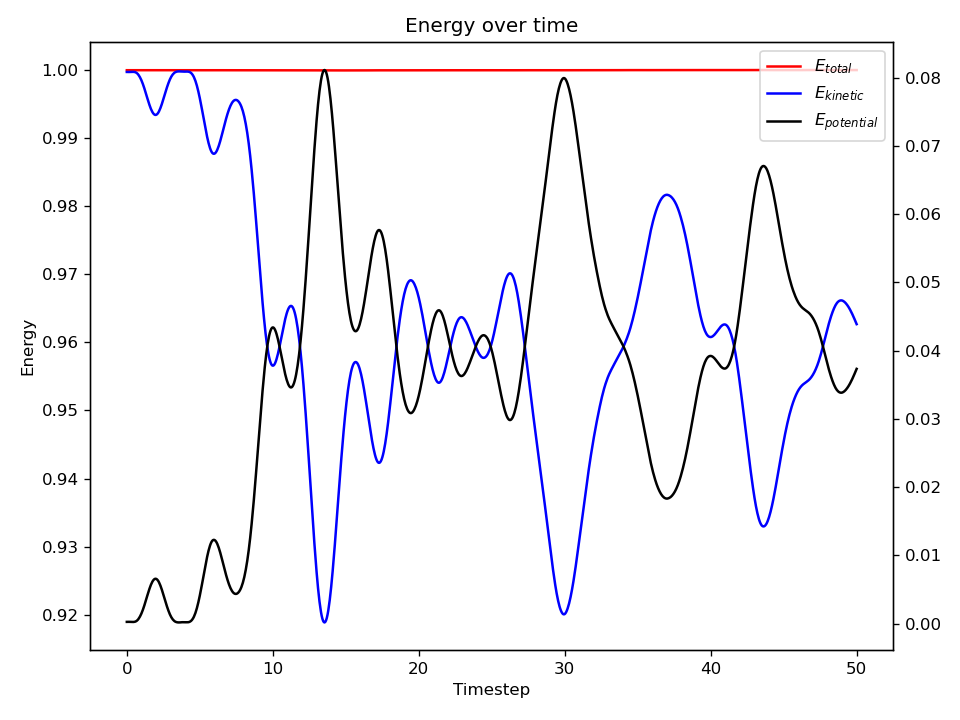
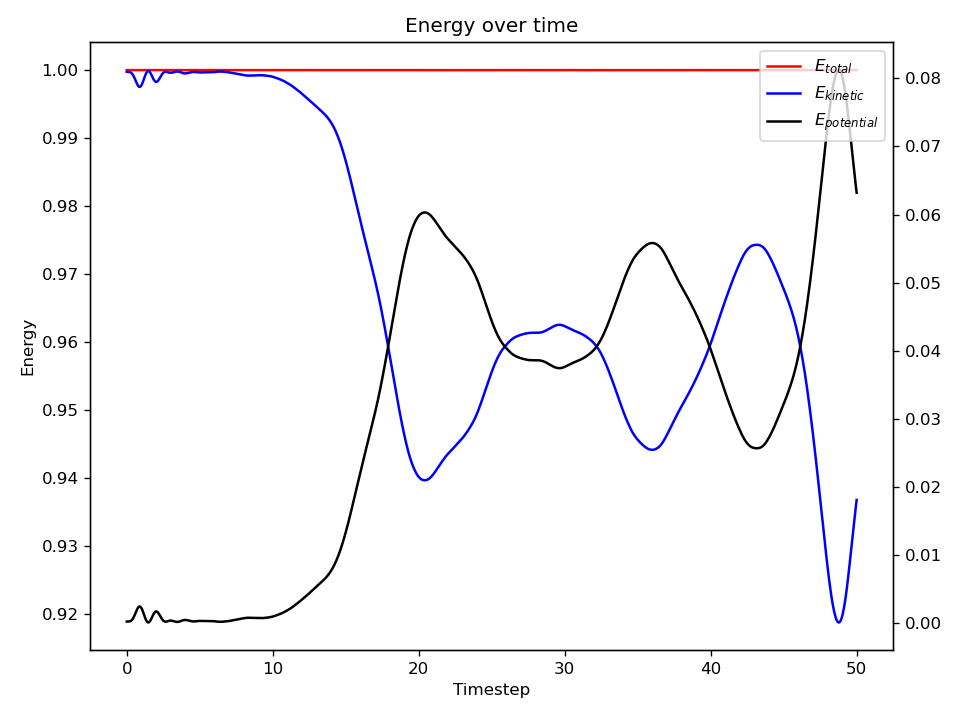
update plot func

diff --git a/src/util.py b/src/util.py
@@ -492,7 +492,7 @@ def generate_bump_on_tail_gif(
     # Save animation
     ani.save(filepath, writer=animation.PillowWriter(fps=plot_freq))
     plt.close(fig)
-    
+
 def generate_bump_on_tail_dist_gif(
     snapshot:np.ndarray,
     save_dir:Optional[str],
@@ -695,6 +695,69 @@ def generate_distribution_figure(
     axes[1,2].set_ylabel("f(v) at $t=t_{max}$")
     axes[1,2].set_xlim([vmin, vmax])
     axes[1,2].set_ylim([0, 0.5])
+
+    fig.tight_layout()
+    plt.savefig(filepath, dpi=120)
+
+    return fig, axes
+
+def generate_v_distribution_figure(
+    snapshot: np.ndarray,
+    save_dir: Optional[str],
+    filename: Optional[str],
+    vmin: Optional[float] = -10.0,
+    vmax: Optional[float] = 10.0,
+):
+
+    v_axis = np.linspace(vmin, vmax, 64)
+
+    # check directory
+    filepath = os.path.join(save_dir, filename)
+
+    if not os.path.exists(save_dir):
+        os.makedirs(save_dir)
+
+    # Snapshot info
+    N = snapshot.shape[0] // 2
+    Nt = snapshot.shape[1]
+
+    fig, axes = plt.subplots(1, 3, figsize=(12, 4), facecolor="white", dpi=120)
+
+    x = snapshot[: len(snapshot) // 2, 0]
+    v = snapshot[len(snapshot) // 2 :, 0]
+
+    density = gaussian_kde(v)
+
+    axes[0].plot(v_axis, density(v_axis), "b")[0]
+    axes[0].set_xlabel("v")
+    axes[0].set_ylabel("f(v)")
+    axes[0].set_xlim(vmin, vmax)
+    axes[0].set_ylim([0, 0.5])
+    axes[0].set_title("Distribution f(v,$t=0$)")
+
+    x = snapshot[: len(snapshot) // 2, Nt//2]
+    v = snapshot[len(snapshot) // 2 :, Nt//2]
+
+    density = gaussian_kde(v)
+
+    axes[1].plot(v_axis, density(v_axis), "b")[0]
+    axes[1].set_xlabel("v")
+    axes[1].set_ylabel("f(v)")
+    axes[1].set_xlim(vmin, vmax)
+    axes[1].set_ylim([0, 0.5])
+    axes[1].set_title("Distribution f(v,$t=t_{max}/2$)")
+
+    x = snapshot[: len(snapshot) // 2, -1]
+    v = snapshot[len(snapshot) // 2 :, -1]
+
+    density = gaussian_kde(v)
+
+    axes[2].plot(v_axis, density(v_axis), "b")[0]
+    axes[2].set_xlabel("v")
+    axes[2].set_ylabel("f(v)")
+    axes[2].set_xlim(vmin, vmax)
+    axes[2].set_ylim([0, 0.5])
+    axes[2].set_title("Distribution f(v,$t=t_{max}$)")
 
     fig.tight_layout()
     plt.savefig(filepath, dpi=120)

diff --git a/pic_1d_bump_on_tail.py b/pic_1d_bump_on_tail.py
@@ -2,13 +2,14 @@ import argparse
 from src.PIC import PIC
 from src.dist import BumpOnTail1D
 from src.util import (
-    generate_bump_on_tail_figure, 
-    generate_bump_on_tail_snapshot, 
-    generate_hamiltonian_analysis, 
-    generate_bump_on_tail_gif, 
+    generate_bump_on_tail_figure,
+    generate_bump_on_tail_snapshot,
+    generate_hamiltonian_analysis,
+    generate_bump_on_tail_gif,
     generate_bump_on_tail_dist_gif,
-    generate_distribution_snapshot, 
-    generate_distribution_figure
+    generate_distribution_snapshot,
+    generate_distribution_figure,
+    generate_v_distribution_figure,
 )
 
 def parsing():
@@ -73,7 +74,8 @@ if __name__ == "__main__":
     # plot distribution
     generate_distribution_snapshot(snapshot[:,-1], args["save_dir"],"{}_snapshot_dist_{}_{}.png".format(args['simcase'], args['interpol'], args['method']), xmin = 0, xmax = args['L'], vmin = -10.0, vmax = 10.0)
     generate_distribution_figure(snapshot, args["save_dir"],"{}_evolution_dist_{}_{}.png".format(args['simcase'], args['interpol'], args['method']), xmin = 0, xmax = args['L'], vmin = -10.0, vmax = 10.0)
-
+    generate_v_distribution_figure(snapshot, args["save_dir"],"{}_evolution_v_dist_{}_{}.png".format(args['simcase'], args['interpol'], args['method']), vmin = -10.0, vmax = 10.0)
+    
     if args['use_animation']:
         generate_bump_on_tail_gif(snapshot, args['save_dir'], "{}_simulation_{}_{}.gif".format(args['simcase'], args['interpol'], args['method']), 0, args['L'], -10.0, 10.0, args['plot_freq'], h_idx)
         generate_bump_on_tail_dist_gif(snapshot, args['save_dir'], "{}_simulation_dist_{}_{}.gif".format(args['simcase'], args['interpol'], args['method']), 0, args['L'], -10.0, 10.0, args['plot_freq'], h_idx)

diff --git a/pic_1d_two_stream.py b/pic_1d_two_stream.py
@@ -7,7 +7,8 @@ from src.util import (
     generate_PIC_gif, 
     generate_distribution_snapshot, 
     generate_distribution_figure, 
-    generate_PIC_dist_gif
+    generate_PIC_dist_gif,
+    generate_v_distribution_figure
 )
 
 def parsing():
@@ -26,7 +27,7 @@ def parsing():
     parser.add_argument("--vth", type = float, default = 1.0)
     parser.add_argument("--gamma", type = float, default = 5.0)
     parser.add_argument("--A", type = float, default = 0.1)
-    parser.add_argument("--n_mode", type=int, default=2)
+    parser.add_argument("--n_mode", type=int, default=5)
     parser.add_argument("--use_animation", type = bool, default = True)
     parser.add_argument("--plot_freq", type = int, default = 50)
     parser.add_argument("--save_dir", type = str, default = "./result/")
@@ -70,6 +71,7 @@ if __name__ == "__main__":
     # plot distribution
     generate_distribution_snapshot(snapshot[:,-1], args["save_dir"],"{}_snapshot_dist_{}_{}.png".format(args['simcase'], args['interpol'], args['method']), xmin = 0, xmax = args['L'], vmin = -10.0, vmax = 10.0)
     generate_distribution_figure(snapshot, args["save_dir"],"{}_evolution_dist_{}_{}.png".format(args['simcase'], args['interpol'], args['method']), xmin = 0, xmax = args['L'], vmin = -10.0, vmax = 10.0)
+    generate_v_distribution_figure(snapshot, args["save_dir"],"{}_evolution_v_dist_{}_{}.png".format(args['simcase'], args['interpol'], args['method']), vmin = -10.0, vmax = 10.0)
 
     if args['use_animation']:
         generate_PIC_gif(snapshot, args['save_dir'], "{}_simulation_{}_{}.gif".format(args['simcase'], args['interpol'], args['method']), 0, args['L'], -10.0, 10.0, args['plot_freq'])
